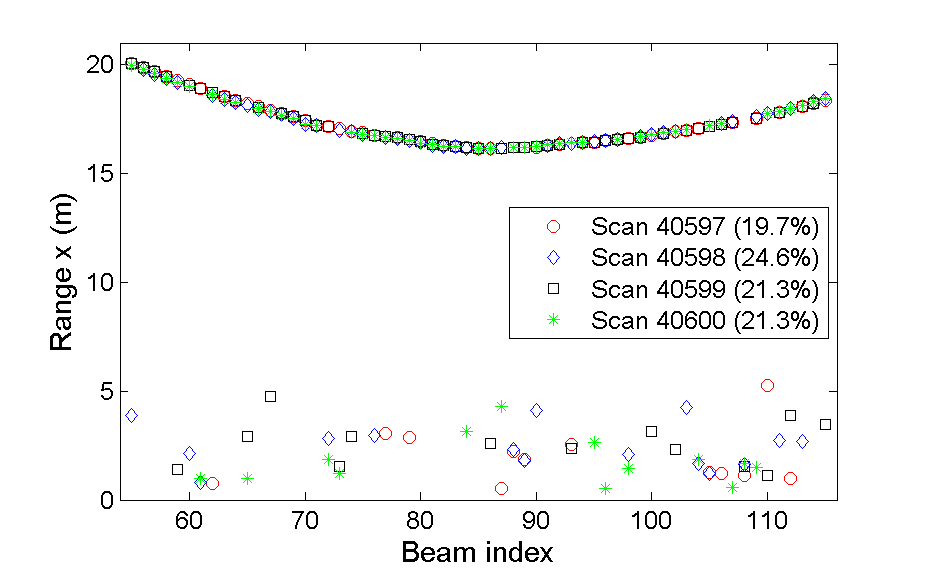
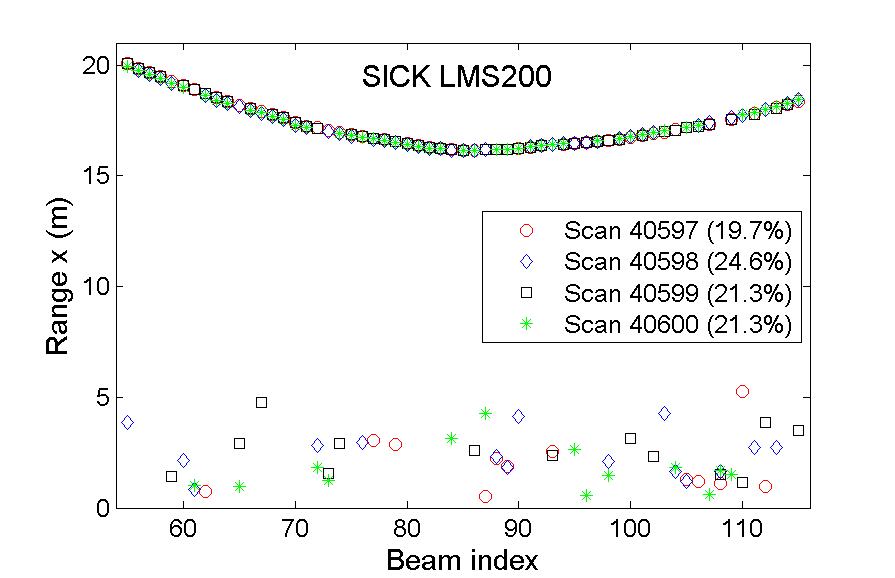
Ajout du tableau des moyennes, beaucoup de texte sur l'analyse

diff --git a/Article/tex/data_analysis.tex b/Article/tex/data_analysis.tex
@@ -1,9 +1,8 @@
 \section{Data analysis}
 \label{sec:data-analysis}
 
-\subsection{Selection of data}
-For each sensor, we selected a number of angles/rings that had a clear path towards the ground. These details are given in Tab.~\ref{tab:selectionScans}. The position of the ground in our scans was between $x$=\SI{15}{\meter} to $x$=\SI{22}{\meter}. To simplify analysis, we considered as a snowfall echo as any measurement which had a range reading $x<$\SI{14.5}{\meter}. As will be shown later in section~\ref{subsub:Histo}, this is a valid shortcut as the vast majority of those events happened for $x<$\SI{10}{\meter}. 
-test
+\subsection{Pre-selection of laser data}
+For each sensor, we selected a combination of angles and laser rings (for the Velodyne) or beams (for the others) that had a clear view of the snow-covered ground surface. The actual details for each sensor are given in Tab.~\ref{tab:selectionScans}. The range of the ground in our scans was between $x$=\SI{15}{\meter} to $x$=\SI{22}{\meter}. To simplify analysis, we considered as a snowfall echo any measurement which had a range reading of $x<$\SI{14.5}{\meter}. As will be shown later in section~\ref{subsub:Histo}, this is a valid approximation as the vast majority of those events happened for $x<$\SI{10}{\meter}. Thus, any snowflakes echoes between  $x>$\SI{14.5}{\meter} and the snow-covered ground surface are negligible, for all four sensors.
 
 \begin{table*}[htbp]
     \centering
@@ -11,7 +10,7 @@ test
     \begin{tabular}{|c|c|c|c|c|}
         \hline
         \textbf{Sensor}            & \textbf{Acquisition Frequency}  & \textbf{Selected beams/angles}  & \textbf{Selected rings}  & \textbf{Window size} \\\hline
-        SICK LMS200               & \SI{9.375}{\Hz}                      & 55 to 115                                    & N/A                         & ~\SI{106}{\second}       \\\hline
+        SICK LMS-200               & \SI{9.375}{\Hz}                      & 55 to 115                                    & N/A                         & ~\SI{106}{\second}       \\\hline
         SICK LMS151               & \SI{25}{\Hz}                           & 310 to 220                                  & N/A                         & ~\SI{40}{\second}        \\\hline
         Hokuyo UTM-30LX-EW  & \SI{20}{\Hz}                          & 440 to 590                                  & N/A                         & ~\SI{100}{\second}     \\\hline
         Velodyne HDL-32E        & \SI{10}{\Hz}                          & -0.05 to 0.25 $rad$                     & 17 to 31                   & ~\SI{40}{\second}      \\\hline
@@ -23,43 +22,41 @@ test
 % ========================= Timing  ===================
 
 \subsection{Temporal analysis}
-Snowing is a temporally dynamic process, with large variation in snowing rates over its duration. Moreover, the snow physical characteristics (size, shape or reflectance) might vary significantly during a storm, affected by ambient conditions such as humidity level and temperature. On top of that, wind gusts might pull snow back up in the air or drive it sideways, affecting its effective fall rate. Consequently, one expect during these storms to see significant short, medium and long term variations in the fraction of LiDAR echoes corresponding to the falling snow.
+A snowfall is a highly dynamic process, with large variation in snowing rates over its duration. Moreover, the snow physical characteristics (size, shape or reflectance) might vary significantly during a storm, affected by ambient conditions such as humidity level and temperature. Also, wind gusts might pull snow back up in the air or drive it sideways, affecting its effective fall rate. Consequently, one expect during a snowstorm to see significant short, medium and long term variations in the fraction of LiDAR echoes corresponding to the falling snow. 
 
-Fig.~\ref{fig:TimingSnow}, shows this fraction compared to all measurements as a function of time, for the six snowiest days of our dataset. To allow for better visualization, only the LMS200 and the Hokuyo's $1^{st}$ echo are plotted at their actual scale (1x): Others have been scaled up (from 30x to 200x), with this scaling factor reported in the legend. These results are averaged over small time windows (around 1~minute, detailed in Tab.~\ref{tab:selectionScans}), to provide for a smoother graph.
+Computing and reporting the temporal statistics for every scan would put too much emphasis on the very short-term statistics. Indeed, the inter-scan variation in the fraction of snowflake echoes can be significant. To better illustrate the process, we have overlaid four consecutive scans in the same plot for the LMS200 and for the first echo returned by the multi-echo Hokyyo sensor in Fig.~\ref{fig:LMS200_4Scans_Feb19}, for an intense snowing episode from the 02-19 data set. In these figures, we can see both the spatial and temporal variations of the echoes in snowflakes, which we suspect can be best described by a random process. For the discussion at hand, one can see a fluctuation in the fraction of echoes in snowflakes between scans, reported in the brackets of the legend. 
 
-Our first conclusion based on these graphs is that some sensors are more sensitive than others. The most sensitive device was the older LMS200, first introduced in the mid-2000. Its technical description~\cite{LMS200Manual} indicates that ``Raindrops and snow-flakes are cut out using pixel-oriented evaluation''. However, no further details are given for the algorithm. For the most intense snowstroms (Fig~\ref{fig:TimingSnow}. b) 02-19, d) 03-17, e) 03-21 and f) 03-30), it peaked at around 15\%, for averaging windows of \SI{106}{\second}. A snapshot of four consecutive scans overlaid in the same plot can be seen in Fig.~\ref{fig:LMS200_4Scans_Feb19}, corresponding to one of those intense episode.
+To smooth out these very short-term fluctuations, statistics are extracted from a number of consecutive scans contained in a time window of around 1~minute (detailed values in Tab.~\ref{tab:selectionScans}). Fig.~\ref{fig:TimingSnow}, shows this smoothed fraction of snowflakes echos compared to all returned laser measurements as a function of time, for the six snowiest days of our dataset. To allow for better visualization, only the LMS-200 and the Hokuyo's $1^{st}$ echo are plotted at their actual scale (1x): Others have been scaled up (from 30x to 200x), with their corresponding scaling factors reported in the legend. 
 
-or by design for the multi-echo Hokuyo. Indeed, Fig.~\ref{fig:Hokuyo_4Scans_Feb19}.
-
-\begin{figure}[th]
+ \begin{figure}[th]
     \centering
     \includegraphics[width=0.95\linewidth]{./img/LMS200_4Scans_Feb19.png}
-    \caption{Four overlaid consecutive scans for the LMS200 sensor, taken from the 02-19 dataset. Each symbol correspond to a particular scan. The curved line at the top corresponds to the snow surface on the ground. One can see the rapid variation of the snowflake echoes between scans, and how they are mostly limited to a range $x<$\SI{5}{\meter}. The percentage (in brackets) are the proportion of those echoes in the snowflakes.}
+    \includegraphics[width=0.95\linewidth]{./img/Hokuyo_4Scans_Feb19.png}
+    \caption{Four overlaid consecutive scans for the LMS200 sensor (top), and the $1^{st}$ echo scans for the Hokuyo sensor (bottom), taken from the 02-19 dataset. Each symbol correspond to a particular scan. The curved line at the top corresponds to the snow surface on the ground. One can see the rapid variation of the snowflake echoes between scans, and how they are mostly limited to a range $x<$\SI{5}{\meter}. The percentage (in brackets) are the proportion of those echoes in the snowflakes.}
     \label{fig:LMS200_4Scans_Feb19}
 \end{figure}
 
-\begin{figure}[th]
-    \centering
-    \includegraphics[width=0.93\linewidth]{./img/Hokuyo_4Scans_Feb19.png}
-    \caption{Four overlaid consecutive $1^{st}$ echo scans for the Hokuyo sensor, taken from the 02-19 dataset. Each symbol correspond to a particular scan. The curved line at the top corresponds to the snow surface on the ground. The percentage (in brackets) are the proportion of echoes in the snowflakes.}
-    \label{fig:Hokuyo_4Scans_Feb19}
-\end{figure}
-
-
-
-A significant side benefit of those more sensitive sensors is that hey are able to record the timeline of a snow storm at a temporally fine-grained. This is something that is not possible with traditional snow measuring equipment, which can only report accumulation over long period of times. Indeed, for b) we see a pretty steady snowfall from t=1 to t=4 hours, with a peak around t=1.25 hours. This could be helpful in modeling a snowstorm in a simulator. 
-
-
-
-For the Hokuyo, we plot two data: 1st and last echo. We do this o allow for fair comparison, as this device is, by design, returning echos in the falling snow. Moreover, it allows us to have an idea of how much  snow is actually falling. Note that however there was instance (daytime with sun) where the sensor didn't return  echos at all. We suspect that this is sue to the fact that the power level used
+\subsubsection{SICK Sensors LMS-200 and LMS-151}
+Our first conclusion based on Fig.~\ref{fig:TimingSnow} is that some sensors are more sensitive than others. The most sensitive device was the older LMS200, first introduced in the mid-2000. For the most intense snowstorms (Fig.~\ref{fig:TimingSnow}. b) 02-19, d) 03-17, e) 03-21 and f) 03-30), it peaked at around 15\%, for averaging windows of \SI{106}{\second}. As an older-generation device, it probably used unsophisticated algorithms and sensing. Indeed, its technical description~\cite{LMS200Manual} indicates that ``Raindrops and snow-flakes are cut out using pixel-oriented evaluation'', but this seems only applicable to  obstacle detection (field computation), not the actual measurements. However, no further details are given. On the other hand, the much more recent SICK LMS-151 exhibits much less sensitivity to snowflakes: the reduction factor for the fraction of snowflakes echoes is in the order of 200-300, granting this device a much higher immunity against snowflakes. Indeed, the highest peak was around 0.1 \% during the 02-19 dataset. More advances in optics and algorithm are probably responsible for this significant improvement. Moreover, this device can be programmed to return either the first or second echo. In our tests, we selected the latter: it would have been however interesting to perform tests to get information about the first echo, but our current system was not capable of gathering this information. Finally, this sensor can also do optics cover contaminant measurements, albeit this feature was not relevant in our case since the sensor's cover was not exposed to the elements.
 
 \begin{figure*}[th]
     \centering
     \includegraphics[width=0.98\linewidth]{./img/TimingSnow.png}
-    \caption{Timing for snow. More to come.}
+    \caption{Temporal evolution of the percentage of echoes coming from the falling snow (range $x<$\SI{5}{\meter}) during the 6 most intense episodes, for all 4 sensors. The data is smoothed by taking statistics for small time windows. Except for the LMS-200 and Hokuyo $1^{st}$ echo, all other sensors statistics have been scaled up (factor in bracket of legend b) for ease of visual comparison.}
     \label{fig:TimingSnow}
 \end{figure*}
 
+
+\subsubsection{Hokuyo UTM-30LX-EW}
+For the Hokuyo sensor, we resorted to a slightly different approach for comparison, as the device has been designed to return multiple echoes. We thus extracted statistics for two cases: for first and last echo. Statistics for the first echo tells us how sensitive the device is, if one which to detect the presence or absence of falling snow. This information could be used, in turn, to adapt the driving or inform vision algorithms of the presence of particles in the air. Using the last echo ensures that we are able to detect large obstacles such as other vehicle or the snow-covered ground, and used in localization and navigation purposes. In case of the first echo, the device should behave like the LMS-200, and in the second case like the LMS-151 (recall that it was programmed to return the second echo). When looking at Fig.~\ref{fig:TimingSnow}, this is more-or-less the behavior that we see. The Hokuyo's $1^{st}$ echo (blue line) closely track the LMS-200 curves (red dashed line) almost everywhere, with a few exceptions for which we do not have an explanation. The last echo of the Hokuyo tends to reject the falling snow, but not as well as the LMS-151, as it peaked at around 0.5 \% in some episodes. Nevertheless, this difference might not be sufficient to impact algorithms relying on laser data.
+
+Note that however there was instance (daytime with sun) where the sensor didn't return echoes at all. We suspect that this is sue to the fact that the power level used. More on this in a following subsection.
+
+
+\subsubsection{Velodyne HDL-32E}
+
+\subsubsection{Use of sensitive devices as snowstorm characterization tools}
+A significant side benefit of those more sensitive sensors is that hey are able to record the temporal evolution of a snowstorm at a fine-grained level. This is something that is not possible with traditional snow measuring equipment, which can only report accumulation over long period of times. Indeed, for b) we see a pretty steady snowfall from t=1 to t=4 hours, with a peak around t=1.25 hours. This could be helpful in modeling a snowstorm in a simulator.
 
 % ========================= Histograms ===================
 \subsection{Distribution of Echos in Falling Snowflakes, as a function of distance}
@@ -86,5 +83,18 @@ For the LMS151, the amound of data is not sufficient to draw much conclusion on 
 
 Results show that laser might need to be mounted farther away from the front of the car, so as to avoid the first 1-2 meters that contain significant amount of echos. Or adjust threshold as a function of speed.
 
+\begin{table}[htbp]
+    \centering
+    \begin{tabular}{|c|c|c|c|}
+        \hline
+        \textbf{LMS-200}       & \textbf{Hokyo first echo}  & \textbf{LMS-151}  & \textbf{Velodyne HDL-32E}  \\\hline
+                 2.67\%            &           3.55\%                 &       0.00178\%     &  0.0100\%  \\\hline
+    \end{tabular}
+    \caption{Average snowflakes echos for the 02-19 data set, per sensor.}
+    \label{tab:avgRates}
+\end{table}
+
 % ======================= Sunlight =====================
 \subsection{Impact of sunlight on Hokuyo}
+
+
